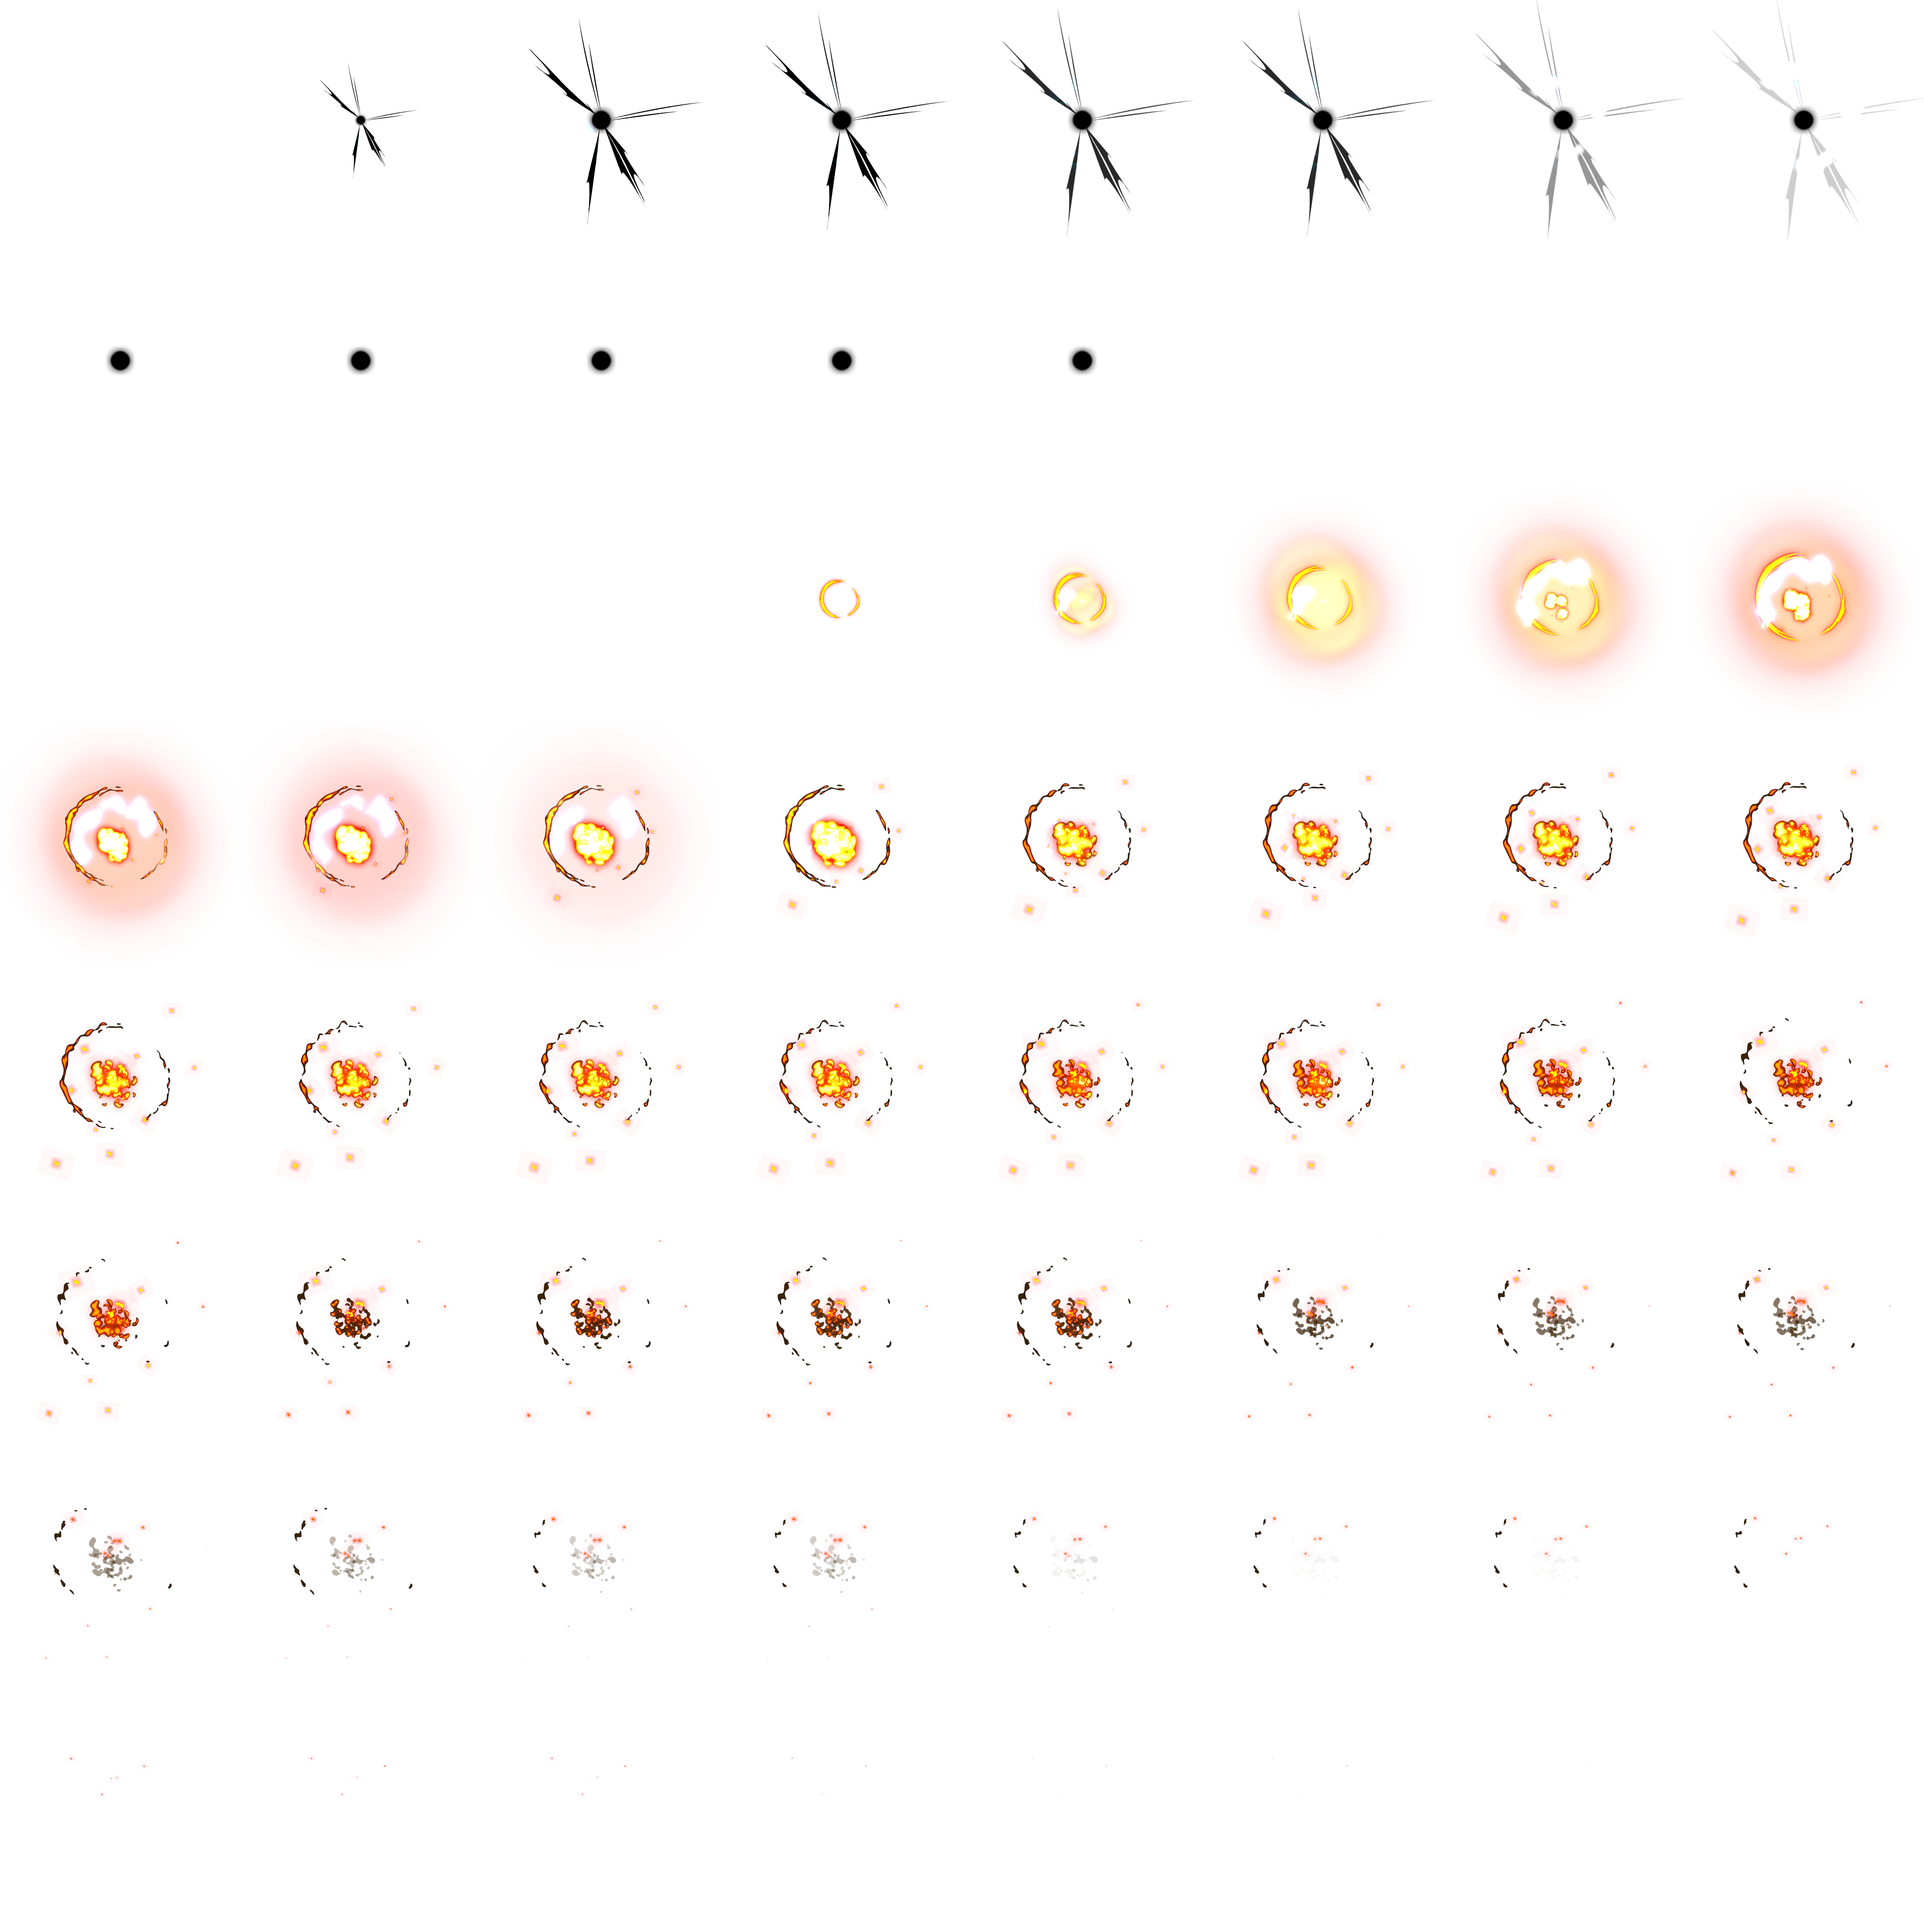
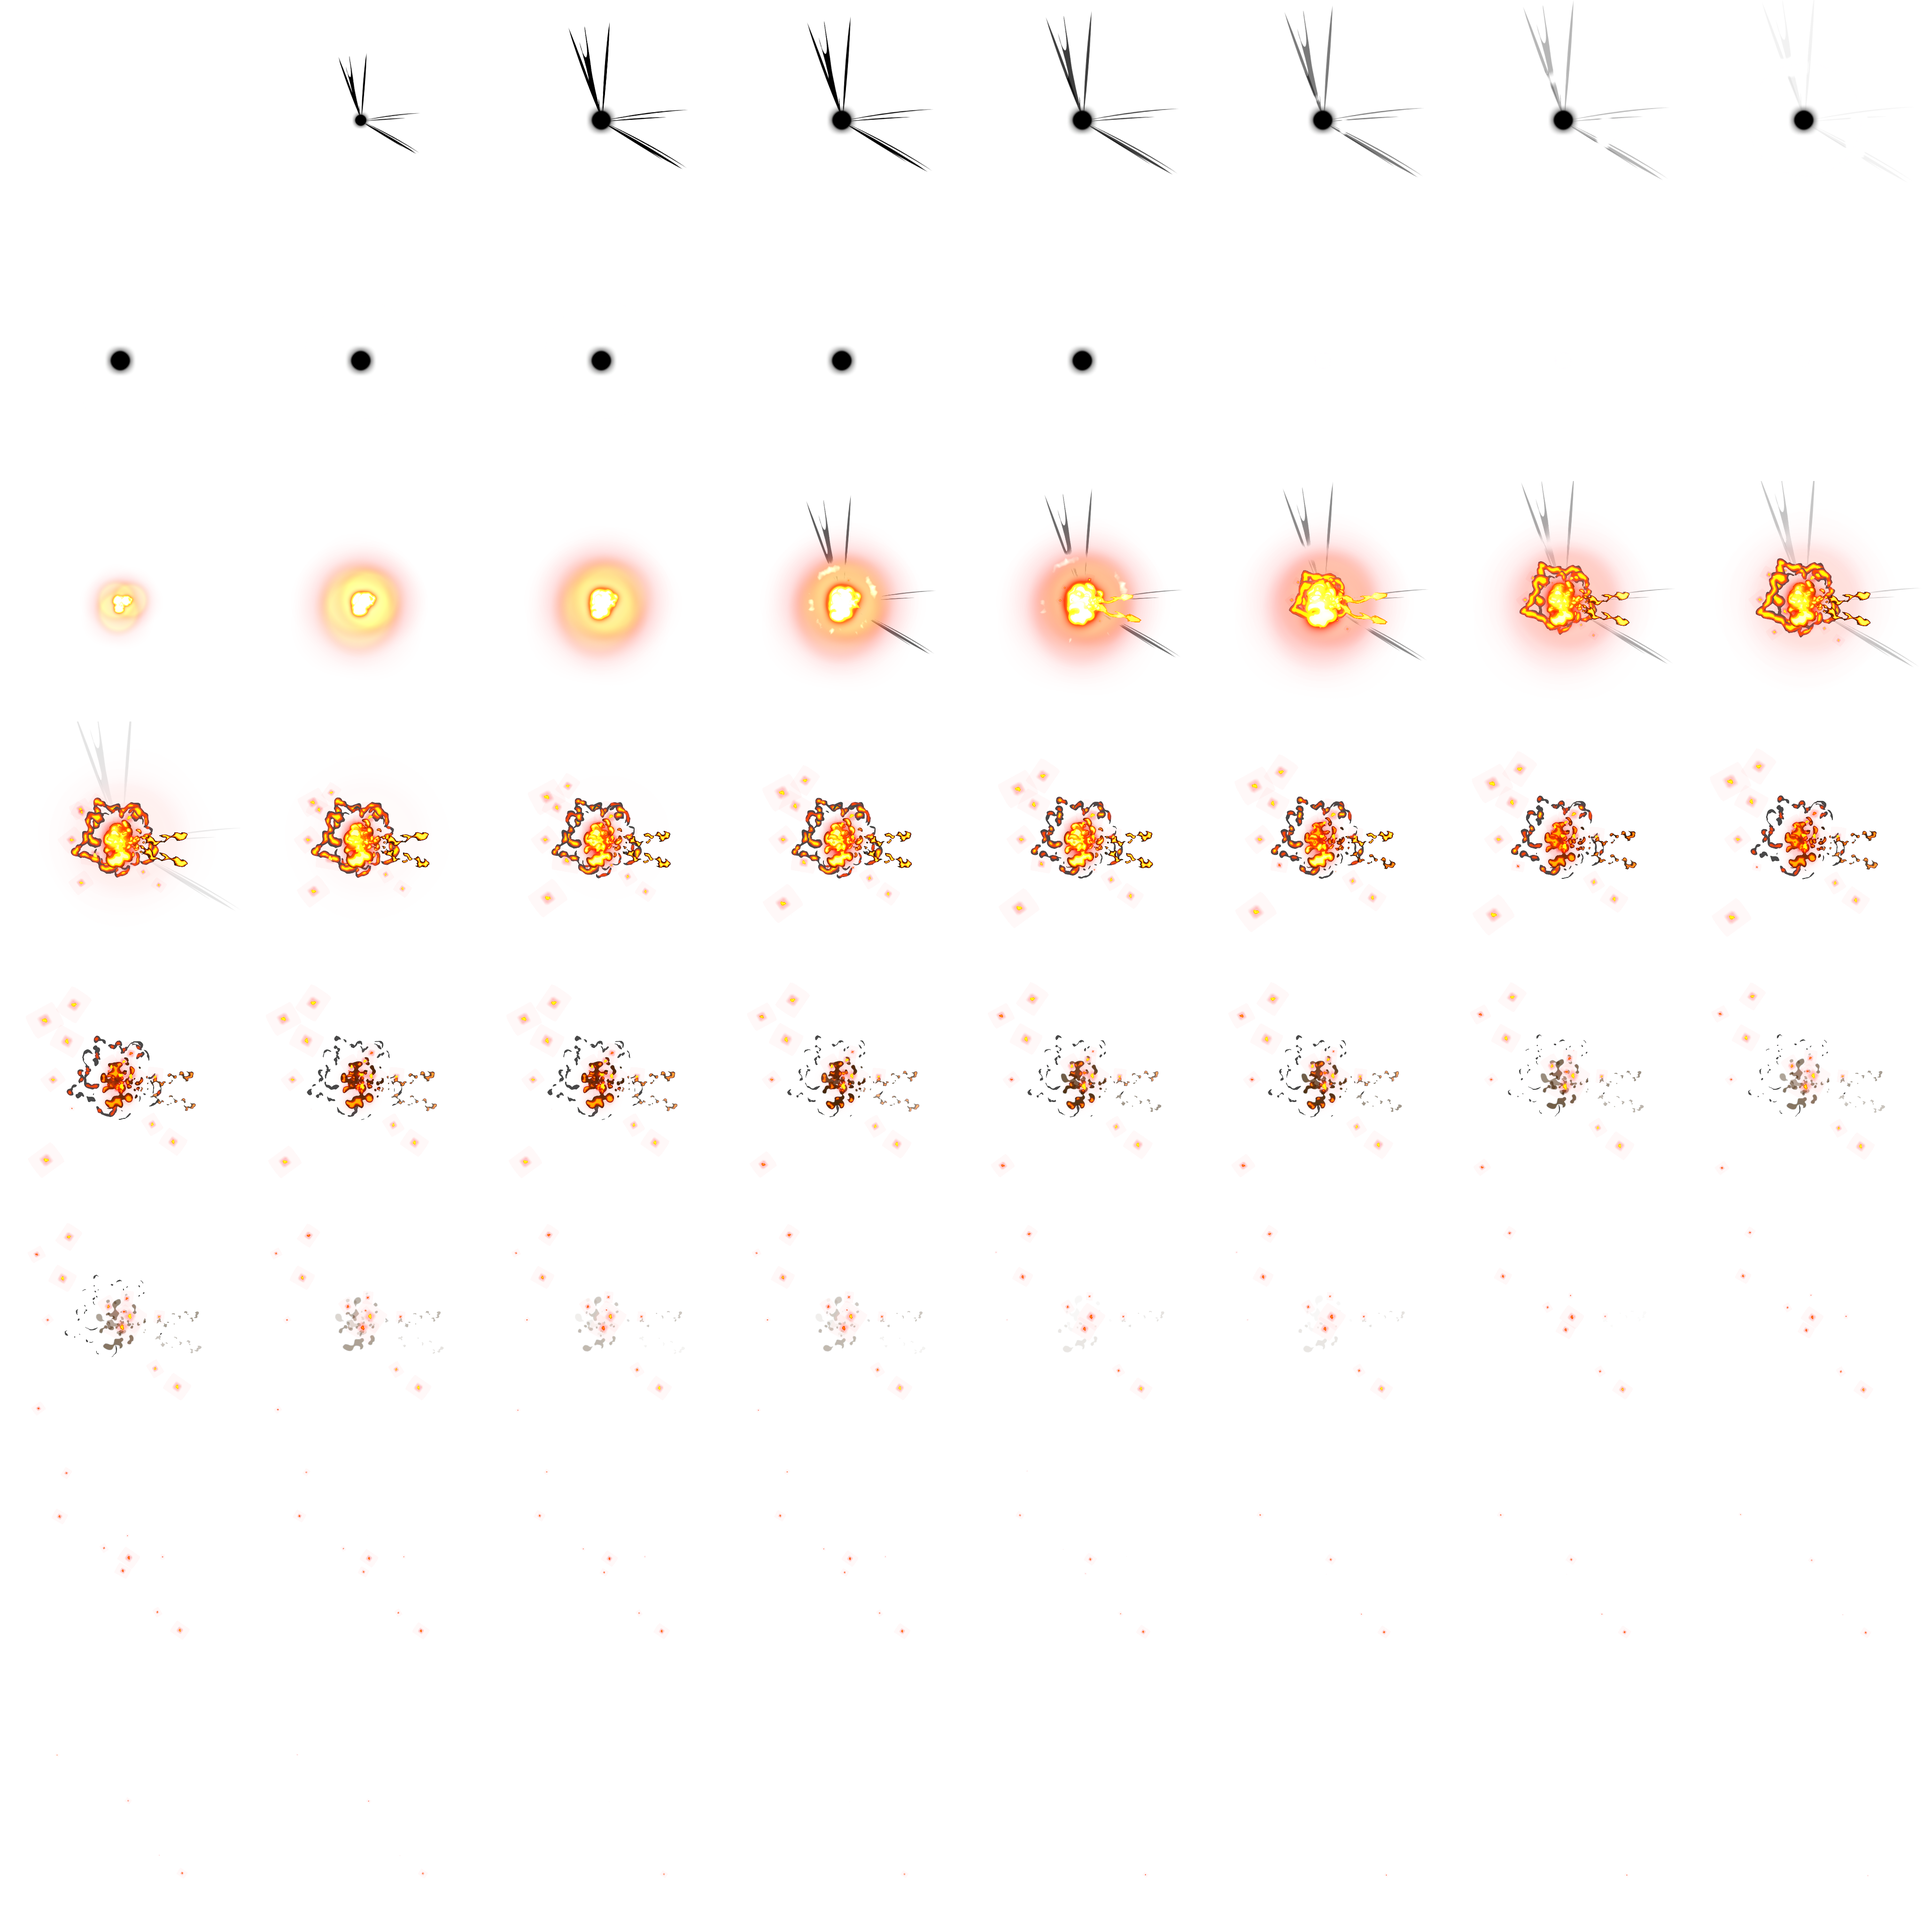
Nicer explosions.

diff --git a/core/src/com/phil/spacegame/Player.java b/core/src/com/phil/spacegame/Player.java
@@ -56,10 +56,10 @@ public class Player extends ShootingObject {
         shieldBoost.setBounds(-300, 0, 222, 92);//sparkles
         sparkles = new AnimatedSprite();
         sparkles.addAnimation(Spacegame.resources.get(Spacegame.resources.animItemCollect, Texture.class),
-                8, 2, 0, 16, 0.04f, "SPARKLES", false);
+                8, 2, 0, 16, 0.05f, "SPARKLES", false);
         sparkles.setAnimation("SPARKLES");
-        sparkles.setSize(210, 105);
-        sparkles.setAlpha(0.8f);
+        sparkles.setSize(190, 120);
+        sparkles.setAlpha(0.9f);
         //sound
         setShotSound("sounds/laser4.mp3", 0.97f);
         //initialize and define pool with missiles

diff --git a/core/src/com/phil/spacegame/Explosion.java b/core/src/com/phil/spacegame/Explosion.java
@@ -10,7 +10,7 @@ public class Explosion extends AnimatedSprite implements SpawnObject {
     public Explosion(String arg) {
         //load and set animation. Looping is disabled
         addAnimation(Spacegame.resources.get(Spacegame.resources.tilesetExplosion, Texture.class),
-                8, 8, 19, 45, 0.02f, "ANIM", false);
+                8, 8, 17, 47, 0.02f, "ANIM", false);
         setAnimation("ANIM");
     }
 
